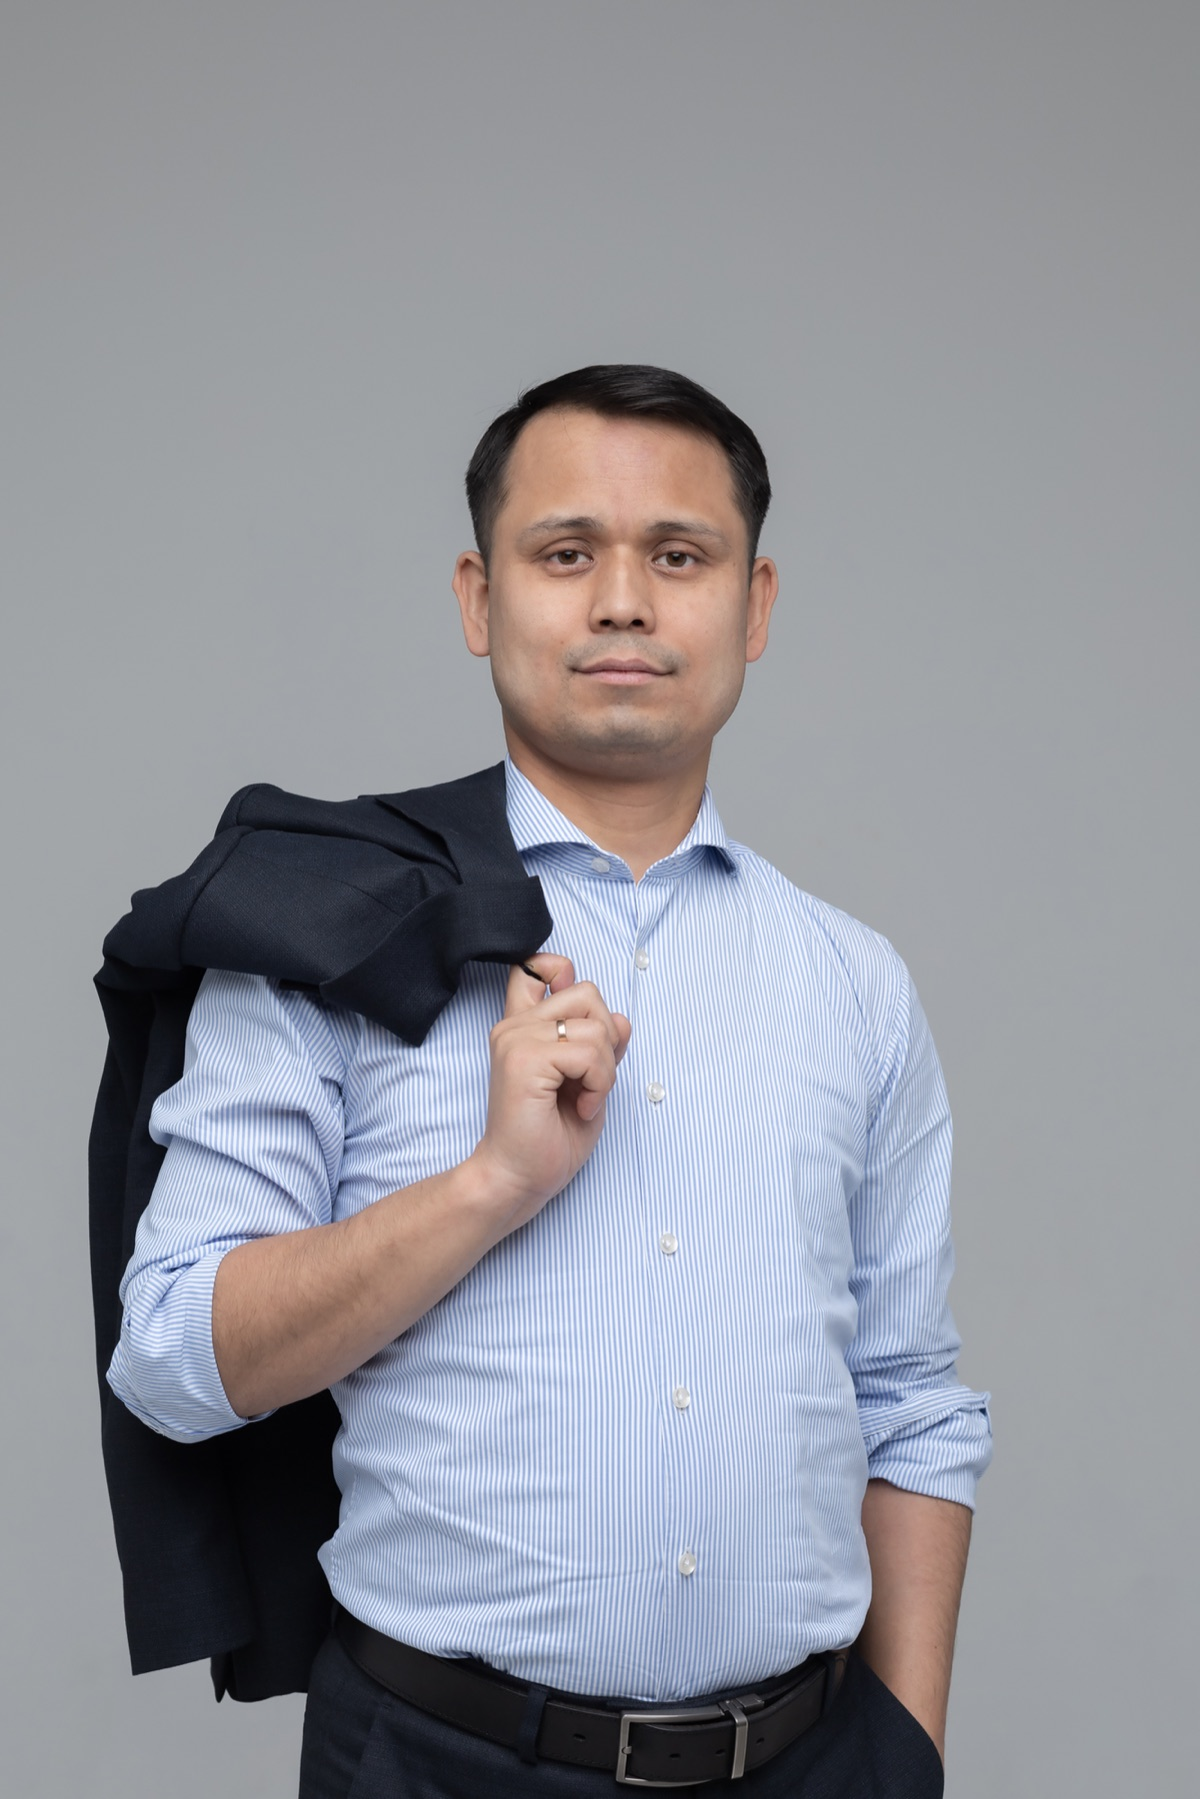
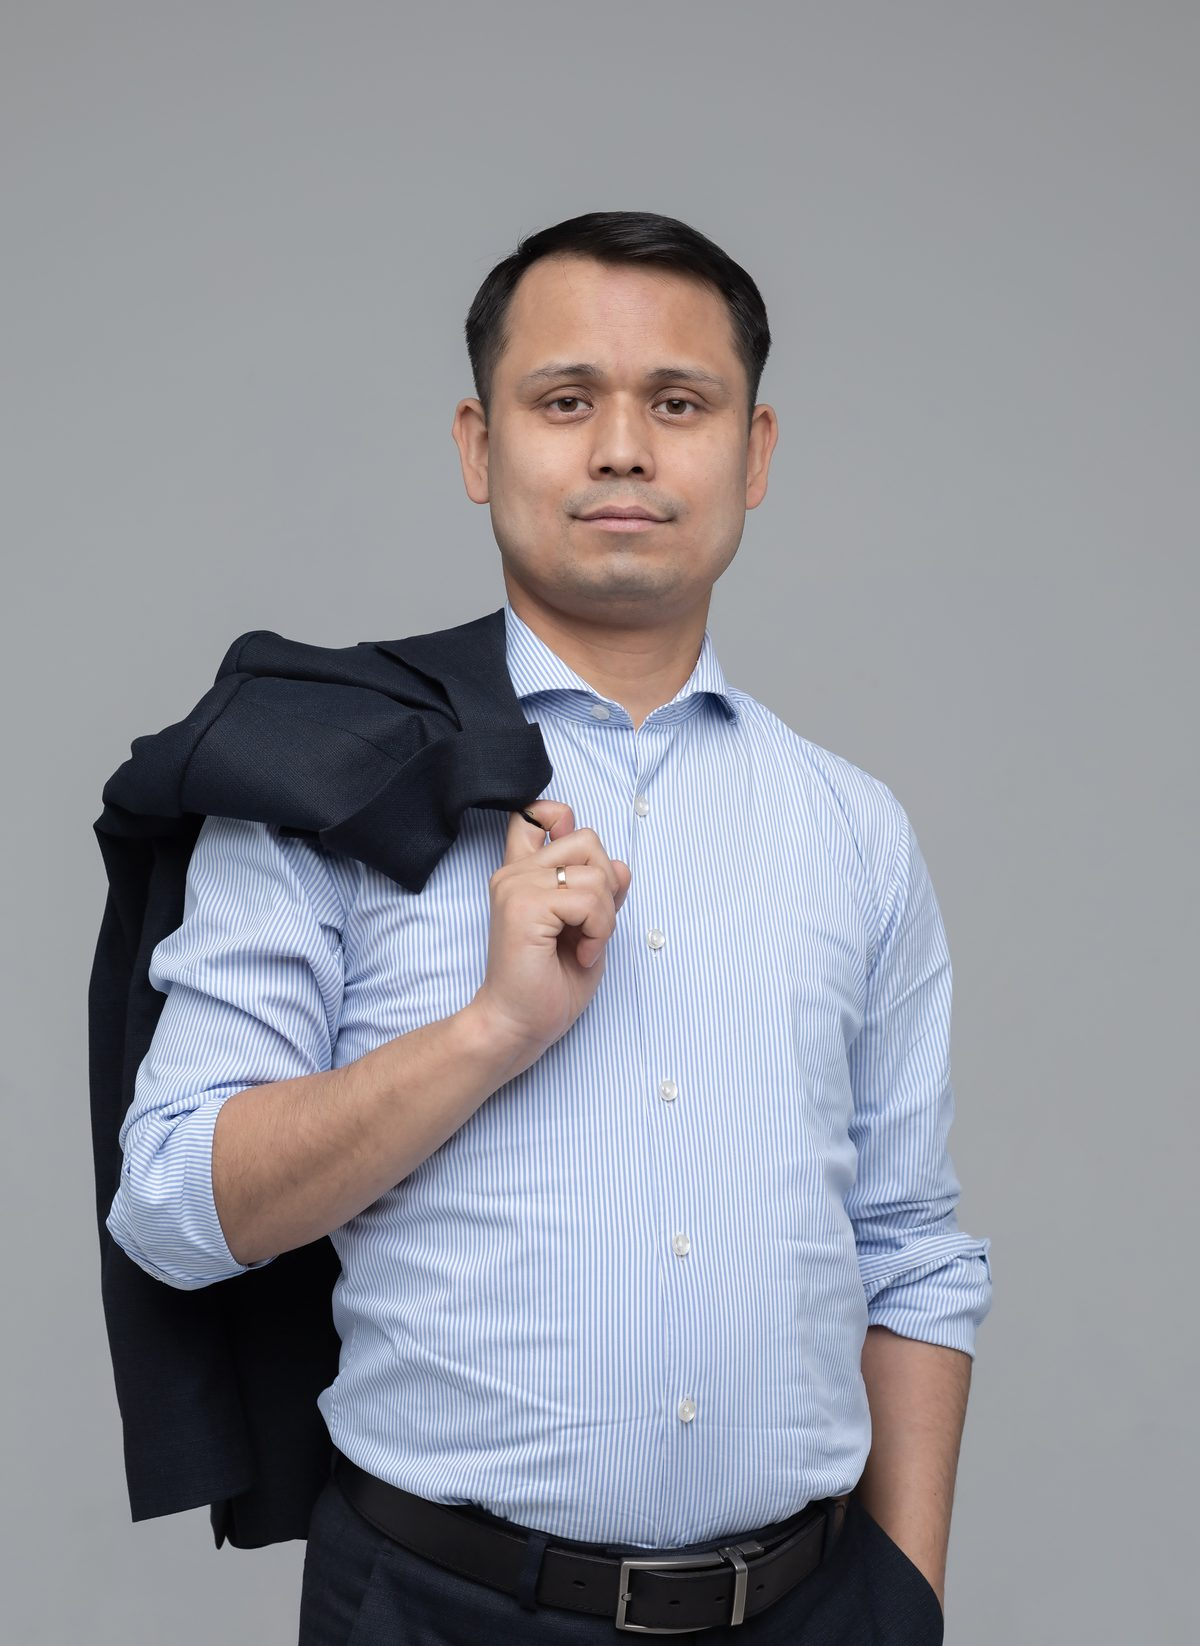
Hero: обрезано поле над головой — лицо у верхнего края

diff --git a/admin.html b/admin.html
@@ -8,8 +8,8 @@
   <link rel="preconnect" href="https://fonts.googleapis.com" />
   <link rel="preconnect" href="https://fonts.gstatic.com" crossorigin />
   <link href="https://fonts.googleapis.com/css2?family=Inter:wght@400;500;600;700&family=Space+Grotesk:wght@500;600;700&display=swap" rel="stylesheet" />
-  <link rel="stylesheet" href="css/styles.css?v=26" />
-  <link rel="stylesheet" href="css/admin.css?v=26" />
+  <link rel="stylesheet" href="css/styles.css?v=27" />
+  <link rel="stylesheet" href="css/admin.css?v=27" />
 </head>
 <body class="admin-body">
 

diff --git a/css/styles.css b/css/styles.css
@@ -42,7 +42,7 @@ body {
     radial-gradient(820px 640px at 88% 60%, rgba(99, 102, 241, 0.30), transparent 60%),
     radial-gradient(760px 640px at 6% 92%, rgba(167, 139, 250, 0.30), transparent 60%),
     linear-gradient(180deg, rgba(7, 11, 20, 0.05) 0%, rgba(7, 11, 20, 0) 28%, rgba(7, 11, 20, 0.45) 50%, rgba(7, 11, 20, 0.88) 72%, rgba(7, 11, 20, 0.98) 100%),
-    url("../img/hero-bg.jpg") center top / cover no-repeat,
+    url("../img/hero-bg.jpg?v=2") center top / cover no-repeat,
     var(--bg);
   color: #eef2fb;
   overflow: hidden;

diff --git a/index.html b/index.html
@@ -9,7 +9,7 @@
   <link rel="preconnect" href="https://fonts.googleapis.com" />
   <link rel="preconnect" href="https://fonts.gstatic.com" crossorigin />
   <link href="https://fonts.googleapis.com/css2?family=Inter:wght@400;500;600;700&family=Space+Grotesk:wght@500;600;700&display=swap" rel="stylesheet" />
-  <link rel="stylesheet" href="css/styles.css?v=26" />
+  <link rel="stylesheet" href="css/styles.css?v=27" />
 </head>
 <body>
 